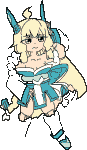
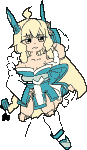
立ち絵の目を単色に・立ち絵のイージングをやめる・手前の電線の端が見えるバグを直す
- 作者指示: 目の配色は繊細で AI が間違えるので単色に。topix.py の mono_eyes で、白っぽい小さな塊
  （白目・瞳の光。背景に触れず体の面積の 0.6% 未満）をまわりでいちばん多い色で塗る
  （服・エプロン・毛皮の大きな白は残す）
- 作者指示: 立ち絵の出方のイージング（0.2秒のふわっと浮き上がり）をジオラマ表示ではやめて一瞬で出す
- 作者指摘: 移動すると手前の電線が切れて見える。手前の縁の物の画用紙が箱と同じ幅で、視差でずらすと
  端が箱の中に入っていた。左右に FRONT_MARGIN ぶん広げて描く

diff --git a/src/engine/diorama.ts b/src/engine/diorama.ts
@@ -648,6 +648,8 @@ export const tintPortrait = (
  * 箱の座標（左上が 0,0・下端が箱の床の手前の縁）で描いた画用紙を返す。
  */
 const FRONT_SCALE = 2;
+/** 手前の縁の物の画用紙を、箱より左右に広げる幅（視差でずらしても電線の端が見えないように）。 */
+const FRONT_MARGIN = 24;
 const makeFront = (
 	field: Field,
 	box: Box,
@@ -656,7 +658,8 @@ const makeFront = (
 ): HTMLCanvasElement | null => {
 	const bw = box.w * TILE;
 	const bh = box.h * TILE;
-	const c = canvas(bw, bh);
+	const fw = bw + FRONT_MARGIN * 2;
+	const c = canvas(fw, bh);
 	const g = c.getContext("2d", { willReadFrequently: true });
 	if (!g) return null;
 	g.imageSmoothingEnabled = false;
@@ -665,7 +668,12 @@ const makeFront = (
 		g.save();
 		g.scale(FRONT_SCALE, FRONT_SCALE);
 		// 下端を箱の床の手前の縁より少し下に（手前に立っている）
-		drawRefInCell(g, ref, x / FRONT_SCALE, bh / FRONT_SCALE - TILE + 4);
+		drawRefInCell(
+			g,
+			ref,
+			(x + FRONT_MARGIN) / FRONT_SCALE,
+			bh / FRONT_SCALE - TILE + 4,
+		);
 		g.restore();
 	};
 	if (kind === "poles") {
@@ -680,8 +688,8 @@ const makeFront = (
 		const armY = bh - FRONT_SCALE * 29;
 		for (let wire = 0; wire < 2; wire++) {
 			const y0 = armY + wire * 4;
-			for (let x = 0; x < bw; x++) {
-				const t = Math.abs(x - px) / bw;
+			for (let x = 0; x < fw; x++) {
+				const t = Math.abs(x - FRONT_MARGIN - px) / bw;
 				g.fillRect(x, Math.round(y0 + t * t * 26 + wire), 1, 1);
 			}
 		}
@@ -699,16 +707,16 @@ const makeFront = (
 	// 影に沈める（場面の色で一段暗く）＋輪郭
 	quantize(
 		g,
-		bw,
+		fw,
 		bh,
-		box.x * TILE,
+		box.x * TILE - FRONT_MARGIN,
 		box.y * TILE,
 		pal.ramp,
 		pal.accent,
 		-0.28,
 		[],
 	);
-	outline(g, bw, bh, pal.ramp[0]);
+	outline(g, fw, bh, pal.ramp[0]);
 	return c;
 };
 
@@ -1007,7 +1015,7 @@ export const renderDiorama = (
 		ctx.beginPath();
 		ctx.rect(sx, 0, bw, sy + bh + SLAB);
 		ctx.clip();
-		ctx.drawImage(terrain.front, sx + frontDx, sy);
+		ctx.drawImage(terrain.front, sx + frontDx - FRONT_MARGIN, sy);
 		ctx.restore();
 	}
 	ctx.fillStyle = scene.cut;

diff --git a/src/style.css b/src/style.css
@@ -2162,3 +2162,9 @@ html.diorama .portrait-img.dots {
 	border-color: #fff;
 	background: rgba(40, 16, 24, 0.85);
 }
+
+/* ジオラマ表示の立ち絵は、ふわっと浮き上がる出方（イージング）をやめて一瞬で出す（作者指示） */
+html.diorama .portrait {
+	transition: none;
+	transform: none;
+}

diff --git a/scripts/portrait-dots/topix.py b/scripts/portrait-dots/topix.py
@@ -114,6 +114,35 @@ def flatten(rgb, fg):
         _, (iy, ix) = ndi.distance_transform_edt(~big, return_indices=True)
         out[rest] = out[iy[rest], ix[rest]]
     out[line] = (20, 16, 18)
+    return mono_eyes(out, fg, line)
+
+
+def mono_eyes(out, fg, line):
+    """
+    目を単色にする（作者指示: 目の配色は繊細で AI が間違えるので、白目や光を描かない）。
+    白っぽい小さな塊（白目・瞳の光）で、背景に触れていないものを、まわりでいちばん多い色で塗る。
+    服・エプロン・毛皮のような大きな白い部分は残す（体の面積の 0.6% 以上）。
+    """
+    whiteish = (out.min(axis=2) > 185) & (out.max(axis=2) - out.min(axis=2) < 45) & fg & ~line
+    lab, n = ndi.label(whiteish)
+    if n == 0:
+        return out
+    limit = fg.sum() * 0.006
+    ring = np.ones((3, 3), bool)
+    for r in range(1, n + 1):
+        m = lab == r
+        if m.sum() >= limit:
+            continue
+        around = ndi.binary_dilation(m, ring, iterations=2) & ~m
+        if (around & ~fg).any():
+            continue  # 背景に触れている＝縁取りの白など
+        cand = around & ~line & ~whiteish
+        if not cand.any():
+            cand = around & ~whiteish
+        if not cand.any():
+            continue
+        cols, counts = np.unique(out[cand].reshape(-1, 3), axis=0, return_counts=True)
+        out[m] = cols[counts.argmax()]
     return out
 
 
